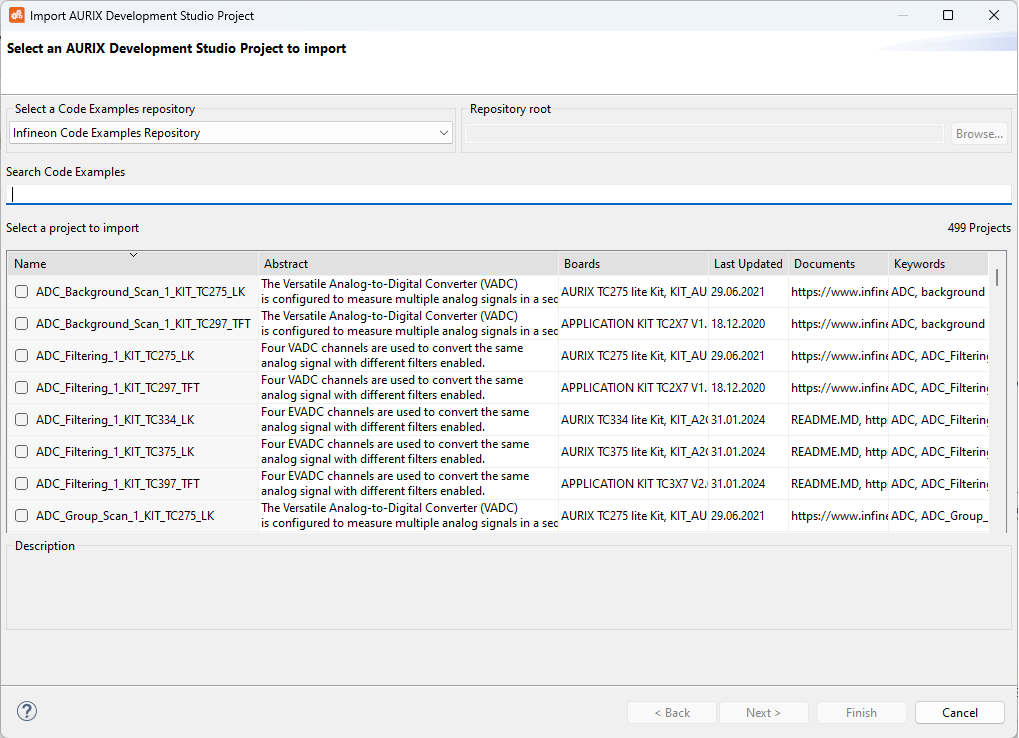
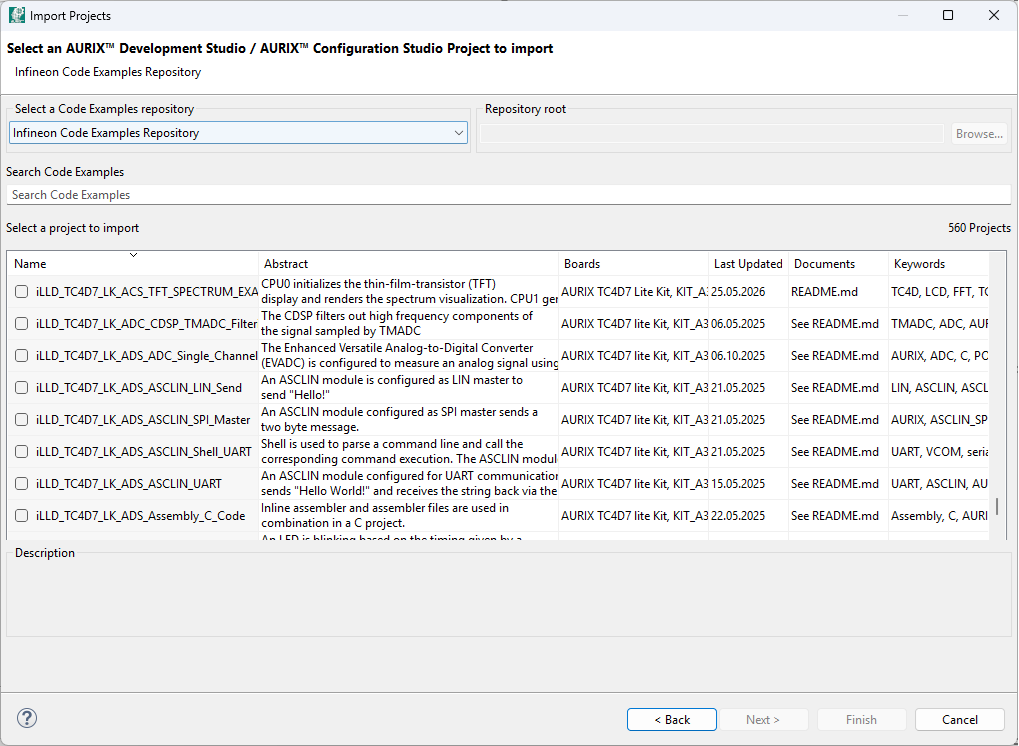
Update readme. Code examples for Aurix Configuration studio have now been added

diff --git a/README.md b/README.md
@@ -1,8 +1,8 @@
-# Code Examples for AURIX™ Development Studio
+# Code Examples for AURIX™ Configuration Studio & AURIX™ Development Studio
 More than hundreds of code examples are available for AURIX™ devices in this repository.<br />
 Each code example is made up of two parts: the **[source code](#source-code)** and the corresponding **[tutorial](#tutorial)**.
 
-To import a code example into AURIX™ Development Studio, follow the guide at the [end on this page](#how-to-import).
+To import a code example into AURIX™ Configuration Studio or AURIX™ Development Studio, follow the guide at the [end on this page](#how-to-import).
 
 **NOTE:** For any question or request, please use the dedicated [Infineon AURIX™ forum](https://community.infineon.com/t5/AURIX/bd-p/AURIX/page/1).
 
@@ -44,7 +44,9 @@ The name of each code example follows a specific naming scheme:
 - &lt;Framework&gt;_&lt;Board short name&gt;&#95;ADS&#95;&lt;Code name&gt;
 
 e.g. : ADC&#95;Filtering&#95;1&#95;KIT&#95;TC375&#95;LK
+e.g. : iLLD&#95;TC4D7&#95;ACS&#95;APPs_Blinky_LED
 e.g. : iLLD&#95;TC375&#95;ADS&#95;Blinky_LED_CPP
+
 
 where:
 - The **code name** summarizes in a couple of words the scope and the module used in the example
@@ -90,7 +92,7 @@ Each tutorial contains the following information:
 - **References**: Useful links
 
 ### Code Examples with README.md tutorial 
-README.md is provided within the project. This file is automatically opened when the code example is imported into AURIX™ Development Studio, giving you immediate access to the documentation alongside the source code.
+README.md is provided within the project. This file is automatically opened when the code example is imported, giving you immediate access to the documentation alongside the source code.
 
 - **Abstract**: An abstract and a detailed description of the example's scope
 - **Device**: The device used in the code example 
@@ -103,11 +105,15 @@ README.md is provided within the project. This file is automatically opened when
 - **References**: Useful links
 
 ## How To Import
-To **import** a code example, use the dedicated import function in AURIX™ Development Studio: *File* &gt;&gt; *Import...* &gt;&gt; *Infineon* &gt;&gt; *"AURIX Development Studio Project"*, select *"Infineon Code Examples Repository"* and select the code example to be imported.
+To **import** a code example, use the dedicated import function in AURIX™ Configuration Studio (ACS) or AURIX™ Development Studio (ADS): 
+ - **ACS**: Open File* &gt;&gt; *Import...* &gt;&gt; *Infineon* &gt;&gt; *"ACS/ADS Project"*
+ - **ADS**: Open File* &gt;&gt; *Import...* &gt;&gt; *Infineon* &gt;&gt; *"AURIX Development Studio Project"*
+
+select *"Infineon Code Examples Repository"* and select the code example to be imported.
 
 <center><img src="./img/importCEs.png" width="800"/></center>
 
-The same result can be achieved by clicking on "*Import AURIX Project*" in the Quick Links view of AURIX™ Development Studio:
+The same result can be achieved by clicking on "*Import AURIX Project*" in the Quick Links
 
 <img src="./img/quickLinksImport.png" width="200" />
 <br>
